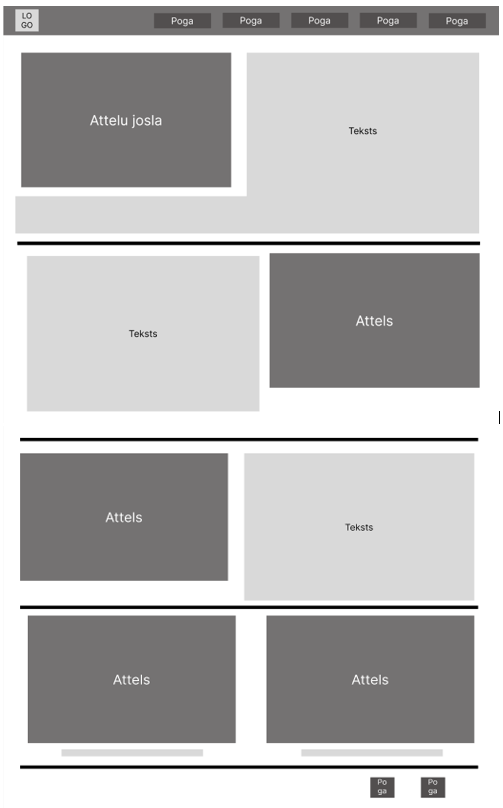
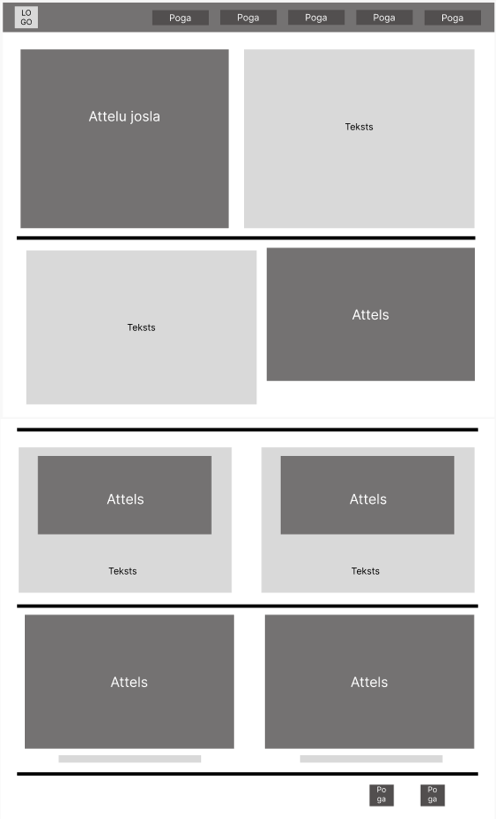
Gala versija

diff --git a/Projekts_Majaslapa/index.html b/Projekts_Majaslapa/index.html
@@ -6,6 +6,10 @@
     <title>Mājaslapa par sevi</title>
     <link rel="stylesheet" href="style.css">
     <link href="https://cdn.jsdelivr.net/npm/bootstrap@5.3.2/dist/css/bootstrap.min.css" rel="stylesheet">
+    <link rel="preconnect" href="https://fonts.googleapis.com">
+<link rel="preconnect" href="https://fonts.gstatic.com" crossorigin>
+<link href="https://fonts.googleapis.com/css2?family=Science+Gothic:wght@100..900&family=Sriracha&display=swap" rel="stylesheet">
+
 </head>
 <body>
   <!-- Navigācijas josla -->
@@ -13,9 +17,9 @@
     <div class="d-flex flex-wrap align-items-center justify-content-center justify-content-lg-start">
          <a href="/" class="d-flex align-items-center mb-2 mb-lg-0 text-white text-decoration-none">
              <svg class="bi me-2" width="40" height="32" role="img" aria-label="Bootstrap"><use xlink:href="#bootstrap"></use></svg> </a> 
-             <ul class="nav col-12 col-lg-auto me-lg-auto mb-2 justify-content-center mb-md-0"> <li><a href="#" class="nav-link px-2 text-secondary">Home</a></li> 
-                <li><a href="#" class="nav-link px-2 text-white">Features</a></li> <li><a href="#" class="nav-link px-2 text-white">Pricing</a></li> 
-                <li><a href="#" class="nav-link px-2 text-white">FAQs</a></li> <li><a href="#" class="nav-link px-2 text-white">About</a></li> </ul> 
+             <ul class="nav col-12 col-lg-auto me-lg-auto mb-2 justify-content-center mb-md-0"> <li><a href="#Home" class="nav-link px-2 text-secondary">Sakums</a></li> 
+                <li><a href="#hobiji" class="nav-link px-2 text-white">Hobiji</a></li> <li><a href="#sasng" class="nav-link px-2 text-white">Interesanti fakti</a></li> 
+                <li><a href="#4sad" class="nav-link px-2 text-white">Bildes</a></li> <li><a href="#footer" class="nav-link px-2 text-white">Soc.tīkli</a></li> </ul> 
                 <form class="col-12 col-lg-auto mb-3 mb-lg-0 me-lg-3" role="search"> 
                     <input type="search" class="form-control form-control-dark text-bg-dark" placeholder="Search..." aria-label="Search"> </form> 
                     <div class="text-end"> 
@@ -25,7 +29,7 @@
  </header>
 <div class="container mt-5">
     <div class="row">
-<center><h1>Nosaukums</h1></center>
+<center><h1 id="Home">Par mani</h1></center>
 <p></p>
         <!-- Kreisā puse - Attēlu josla -->
         <div class="col-md-6">
@@ -53,42 +57,90 @@
         <!-- Labā puse - Teksts -->
         <div class="col-md-6 d-flex">
             <div class="text-box w-100">
-                <h2>Teksts</h2>
+                <h2 id="hobiji">Germans Šurpiks</h2>
                 <p>
-                   ghfgfhgfgfhkfdhdhdjdjfdj teksts teksts teksts teksts teksts teksts teksts
-                   teksts teksts teksts teksts teksts teksts teksts teksts teksts teksts teksts teksts teksts teksts teksts
+                    Es mācos 10.b klasē Salaspils 1.vidusskola, un man ir 17 gadi. Es esmu mērķtiecīgs un atbildīgs cilvēks, kurš vienmēr cenšas sasniegt labākos rezultātus gan mācībās, gan ārpus skolas.
                 </p>
                 <p>
-                  teksts teksts teksts teksts teksts teksts teksts teksts teksts teksts teksts teksts teksts teksts teksts
+                  
                 </p>
             </div>
         </div>
         <hr class="my-4">
-
+<!-- 2 sadaļa -->
             <div class="col-md-6 d-flex">
-              <div class="text-box w-100">
+              <div class="text-box w-70">
                   <h2>Hobiji</h2>
                   <p>
-                     ghfgfhgfgfhkfdhdhdjdjfdj teksts teksts teksts teksts teksts teksts teksts
-                     teksts teksts teksts teksts teksts teksts teksts teksts teksts teksts teksts teksts teksts teksts teksts
+                     Brīvajā laikā man patīk nodarboties ar sportu, klausīties mūziku un pavadīt laiku ar draugiem. Mani interesē arī tehnoloģijas un jaunu prasmju apgūšana. Esmu piedalījies dažādos skolas pasākumos un projektos, kā arī lepojos ar saviem sasniegumiem mācībās.
                   </p>
                   <p>
-                    <li class="list">1</li>
-                    <li class="list">2</li>
+                    <li class="list">Mūzika</li>
+                    <li class="list">Sports</li>
+                    <li class="list">Lasīšana</li>
+                    <li class="list">Ceļošana</li>
                   </p>
               </div>
           </div> 
           <div class="col-md-6">
-            <img src="https://cherwellsigns.co.uk/wp-content/uploads/2024/07/Road-Sign-1-980x651.jpeg" class="img-fluid" alt="Image">
+            <img src="C:\Users\allla\Desktop\german\Projekts_Majaslapa\images\27podcasts-hobbies-articleLarge.png" class="img-fluid" alt="Image">
           </div>   
-          <hr class="my-4">   
+          <hr class="my-4">
+          <!-- 3 sadaļa -->
+           <h2 id="sasng">Interesanti fakti</h2>
+           <div class="container">
+            <div class="row row-col-1 row-col-md-2 g-4">
+            <div class="col">
+  <div class="card shadow-sm">
+    
+    <img src="C:\Users\allla\Desktop\german\Projekts_Majaslapa\images\zloty-karas.png" class="card-img-top" alt="Image" height="225" style="object-fit: cover;">
+
+    <div class="card-body">
+      <p class="card-text">
+        Interesants fakts par mani – man kādreiz bija zivtiņa, par kuru es rūpējos un kura man iemācīja atbildību.</p>
+        <p>Viņu sauc Rogrigo un viņs bija man labs draugs.</p>
     </div>
-    <footer class="d-flex flex-wrap justify-content-between align-items-center py-3 my-4 border-top"> <div class="col-md-4 d-flex align-items-center"> 
-      <a href="/" class="mb-3 me-2 mb-md-0 text-body-secondary text-decoration-none lh-1" aria-label="Bootstrap"> 
-      <svg class="bi" width="30" height="24" aria-hidden="true"><use xlink:href="#bootstrap"></use></svg> </a> <span class="mb-3 mb-md-0 text-body-secondary">© 2025 Company, Inc</span> </div> 
-      <ul class="nav col-md-4 justify-content-end list-unstyled d-flex"> <li class="ms-3"><a class="text-body-secondary" href="htps//aa" aria-label="Instagram">
-        <svg class="bi" width="24" height="24" aria-hidden="true"><use xlink:href="#instagram"></use></svg></a></li> 
-      <li class="ms-3"><a class="text-body-secondary" href="#" aria-label="Facebook"><svg class="bi" width="24" height="24"><use xlink:href="#facebook"></use></svg></a></li> </ul> </footer>
+
+  </div>
+</div>
+           <div class="col">
+  <div class="card shadow-sm">
+    
+    <img src="C:\Users\allla\Desktop\german\Projekts_Majaslapa\images\mathematics_in_technology.png" class="card-img-top" alt="Image" height="225" style="object-fit: cover;">
+
+    <div class="card-body">
+      <p class="card-text">
+       2025. gadā es ieguvu 3. vietu matemātikas olimpiādē, kas man bija liels sasniegums un motivācija turpināt attīstīties šajā jomā.</p>
+       <p>Savu nakotnes karjeru es arī gribu saistīt ar matemātikas jomu.</p>
+    </div>
+
+  </div>
+</div>
+                 <!-- 4 sadala -->
+                 <hr class="my-4">
+                 <h2 id="4sad">Ceļošana - dzīvesveids</h2>
+                 <div class="images">
+                 <img src="C:\Users\allla\Desktop\german\Projekts_Majaslapa\images\photo_2026-02-20_21-09-53.jpg" class="rounded float-start" alt="Image 1">
+<img src="C:\Users\allla\Desktop\german\Projekts_Majaslapa\images\photo_2026-02-20_21-11-08.jpg" class="rounded float-end" alt="Image 2">
+</div>
+        
+    <!-- footer -->
+     <hr class="my-4">
+  <footer>
+  <div class="footer-left">
+    <p id="footer">© 2026 Company, Inc.</p>
+  </div>
+
+  <div class="footer-right">
+    <a href="https://instagram.com/_jericks" target="_blank" class="social-btn">
+      <img src="https://cdn-icons-png.flaticon.com/512/2111/2111463.png" alt="Instagram">
+    </a>
+
+    <a href="https://www.facebook.com/share/1869ByDvvv/?mibextid=wwXIfr" target="_blank" class="social-btn">
+      <img src="https://cdn-icons-png.flaticon.com/512/733/733547.png" alt="Facebook">
+    </a>
+  </div>
+</footer>
 </div>
 
 <script src="https://cdn.jsdelivr.net/npm/bootstrap@5.3.2/dist/js/bootstrap.bundle.min.js"></script>

diff --git a/Projekts_Majaslapa/style.css b/Projekts_Majaslapa/style.css
@@ -1,5 +1,6 @@
 .body{
     background-color: #f2f2f2;
+    
 }
 
 .carousel-item img {
@@ -24,6 +25,45 @@
     padding-left: 10px;
 }
 
-.my-4{
-    height: 2px;
+
+
+.sriracha-regular {
+    font-family: "Sriracha", cursive;
+    font-weight: 400;
+    font-style: normal;
+  }
+
+  .images{
+    display: flex;
+  gap: 20px;
+  }
+
+  .images img{
+    width: 50%;
+  }
+
+ footer {
+ background-color: #222;
+  color: white;
+  padding: 20px 40px;
+  display: flex;
+  justify-content: space-between;
+  align-items: center;
+  width: 100%;
 }
+
+.footer-right {
+  display: flex;
+  gap: 15px;
+}
+
+.social-btn img {
+  width: 30px;
+  height: 30px;
+  transition: 0.3s;
+}
+
+.social-btn img:hover {
+  transform: scale(1.1);
+}
+  
